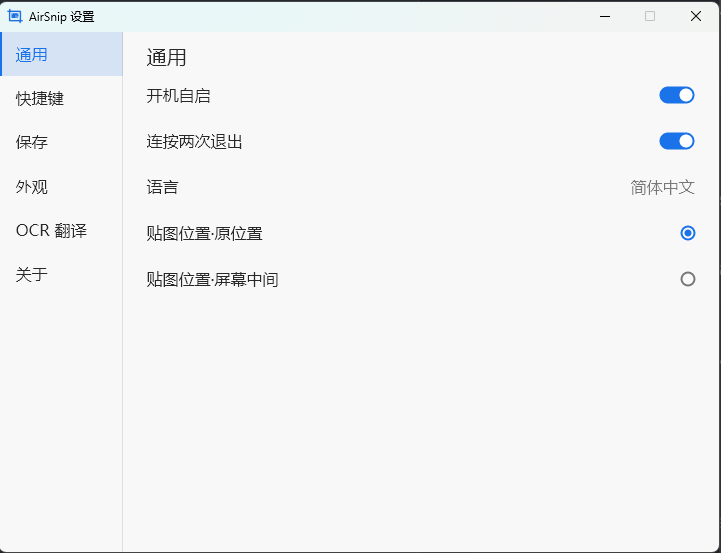
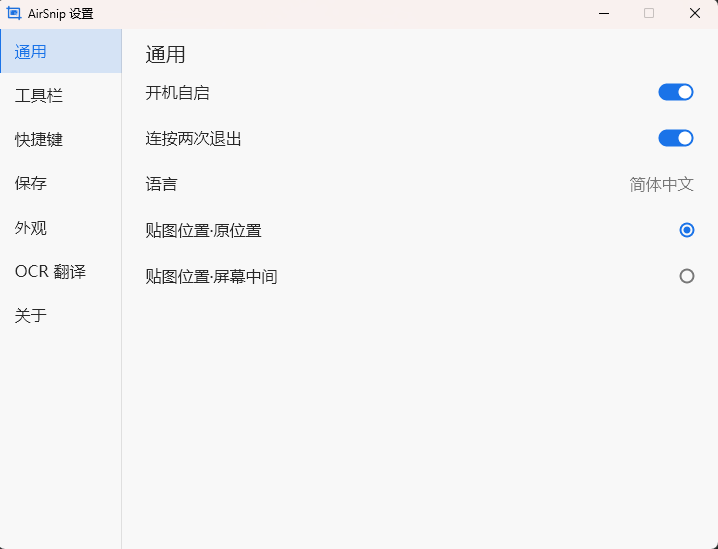
🚀 跟进 v0.11.0 正式版：版本、体积与新截图
- site.ts：VERSION → v0.11.0；单文件 1.46 MB、下载包 0.81 MB（zip 实测 851,952 字节，官方直链与 v4.gh-proxy 都返回 200 且长度一致）
- releaseUpdate：换成 v0.11.0 的四张卡片（工具栏逐项显隐 / 单独删除选中标注 / OCR 不再要总开关 / 「恢复默认」不再误触），新增 trash 图标
- 快捷键：OCR 默认键 C → T（以源码 src/settings/hotkey.rs 与 Release 说明为准，原值取自作者本机改过的绑定）；补 Del / Backspace 删除选中标注
- 截图：新增「工具栏」页（toolbar.webp，ProductTour 第 2 个标签），其余 6 张换成作者新补的图并同步尺寸；alt 不再逐项枚举导航
- 文档：features 补「工具栏」页与单独删除、OCR 段改成常开；faq「OCR 怎么开」改成「怎么用」；performance / download / getting-started 体积同步
- 首页更新卡片 4 张时改排 2×2（data-count 驱动），不再 3+1 留孤卡
- README / AGENTS 里的版本号与体积示例同步

diff --git a/docs/.vitepress/data/site.ts b/docs/.vitepress/data/site.ts
@@ -39,6 +39,7 @@ export interface ReleaseChange {
     | 'mirror'
     | 'toggle'
     | 'size'
+    | 'trash'
     | 'ocr'
     | 'mouse'
     | 'tooltip'
@@ -60,7 +61,7 @@ export interface ReleaseUpdate {
 }
 
 export interface Screenshot {
-  id: 'general' | 'shortcuts' | 'save' | 'appearance' | 'ocr' | 'about'
+  id: 'general' | 'toolbar' | 'shortcuts' | 'save' | 'appearance' | 'ocr' | 'about'
   /** 标签页名 */
   title: string
   /** 只描述图中可见内容 */
@@ -80,7 +81,7 @@ export const THIRD_PARTY_URL = `${REPO_URL}/blob/main/THIRD-PARTY.md`
 export const PERF_URL = `${REPO_URL}/blob/main/docs/perf-m5.md`
 
 // 由作者维护：改这里即可让下载地址与页面上显示的版本号同步更新
-export const VERSION = 'v0.10.0'
+export const VERSION = 'v0.11.0'
 
 /** 当前版本的 Release 页面，用于「完整更新日志」 */
 export const RELEASE_URL = `${RELEASES_URL}/tag/${VERSION}`
@@ -102,20 +103,20 @@ export const DESCRIPTION = '1 MB 的 Windows 截图标注工具（Rust，纯 CPU
 export const downloadInfo = {
   platform: 'Windows x64',
   portable: '绿色免安装',
-  packageSize: '0.80 MB',
+  packageSize: '0.81 MB',
   license: 'GPL-3.0-only',
 } as const
 
 export const stats: Stat[] = [
   {
     label: '单文件体积',
-    value: '1.44',
+    value: '1.46',
     unit: 'MB',
     note: '一个 exe 就是全部',
   },
   {
     label: '下载包',
-    value: '0.80',
+    value: '0.81',
     unit: 'MB',
     note: 'zip，含文档与许可证',
   },
@@ -152,37 +153,27 @@ export const statsFootnote =
 /** 首页「这次更新了什么」：只写当前版本 Release 说明里的事实 */
 export const releaseUpdate: ReleaseUpdate = {
   title: '这次更新了什么',
-  lead: '一句话：新增直线 / 椭圆 / 手绘三个标注工具，5 个色块全部可自定义，取消改成连按两次，并修掉 HDR 桌面下长截图内存暴涨。',
+  lead: '一句话：截图工具栏的元素可以逐个隐藏，只留自己常用的那几个按钮；选中的标注能单独删除；OCR 不用再先去设置里开总开关。',
   changes: [
     {
-      icon: 'shapes',
-      title: '新增直线 / 椭圆 / 手绘',
-      body: '工具栏再加三个标注工具，默认键 8 / 9 / 0，可在设置里改并参与冲突检测。直线按住 Shift 吸附水平 / 垂直 / 45°，只有头尾两个端点手柄；椭圆按住 Shift 画正圆，与矩形共用填充开关；手绘按 2px 最小步距采样点列，渲染用「相邻点中点 + 二次贝塞尔」平滑，命中按折线距离判定。三者都进既有的矢量对象模型，选中 / 移动 / 八向缩放 / 方向键微调 / 撤销重做直接可用。',
+      icon: 'layout',
+      title: '工具栏元素可逐个隐藏',
+      body: '设置面板新增「工具栏」页（导航 6 → 7 项），24 个元素逐项开关：10 个工具、5 个色块、填充 / 撤销 / 重做 / 字体行、贴图 / 长截图 / OCR、复制 / 保存；组头可整组全显或全隐，部分可见时勾选框显示半选。隐藏只是不画：快捷键、输出行为、配置一律照旧——藏了保存按钮 Ctrl+S 照样能存，藏了椭圆的数字键 9 照样能切过去。默认全部可见，不动设置的话工具栏与原来完全一致。',
     },
     {
-      icon: 'palette',
-      title: '5 个色块都能自己改',
-      body: '取消原来单独的「自定义色」格子，工具栏 5 个色块统一为单击使用、双击改色：双击展开覆盖层内自绘的取色面板，改的就是该色块本身。单击不用等「可能是双击」的计时器，所以没有选色延迟；悬停提示显示当前色值与操作方式。5 色随配置持久化，下次截图沿用。',
+      icon: 'trash',
+      title: '选中的标注可以单独删除',
+      body: '选中对象后按 Del / Backspace 只删这一个，Ctrl+Z 一步恢复，不用再撤回到它之前、把后面画的全部重画。入口只有键盘：不加工具栏按钮，也不加包围框上的 ✕；没选中对象时不吞按键，照旧用于工具切换。',
+    },
+    {
+      icon: 'ocr',
+      title: 'OCR 不再要总开关',
+      body: 'OCR 常开，设置「OCR 翻译」页删掉了「启用 OCR」，工具栏上的 OCR 按钮默认出现；首次识别才初始化识别引擎，待机开销不变。不想看到按钮就在「工具栏」页隐藏它——隐藏不影响 T 键；彻底不用 OCR，到快捷键页把 OCR 键清空为「未设置」即可。',
     },
     {
       icon: 'mouse',
-      title: '取消截图改成连按两次',
-      body: '有未保存标注时，第一次按 Esc / 右键只弹非模态提示，同一键在 2 秒内再按一次才退出，不再弹系统确认框；换键或先做别的操作会解除待命。设置「常规」页的开关文案改为「连按两次退出」，关掉后有标注也直接退出。',
-    },
-    {
-      icon: 'tooltip',
-      title: '提示不再盖住选区',
-      body: '小选区下的提示优先放在选区内部右上角；可用高度不到提示两倍或宽度塞不下时退到选区上方，上方也没空间才放下方，最后钳回屏幕内。提示 2 秒自动消失，末尾 0.5 秒渐隐。',
-    },
-    {
-      icon: 'hdr',
-      title: '修掉 HDR 下长截图内存暴涨',
-      body: 'HDR 桌面抓屏走 DXGI Desktop Duplication，原实现每抓一帧就重建一次 D3D11 设备与 duplication 会话，驱动在反复重建时会累积泄漏（长截图期间每 ~90ms 一帧，越滚占用越大）。现在整个长截图会话复用同一套设备，结束统一释放；遇到 DXGI_ERROR_ACCESS_LOST（切分辨率 / 全屏独占 / 锁屏）重建一次后继续。单次截图与贴图编辑仍是现建现用。',
-    },
-    {
-      icon: 'layout',
-      title: '界面细节跟上',
-      body: '系统对话框声明通用控件 v6，抓屏 / 保存失败的提示不再是 Win7 式经典外观。设置「快捷键」页键帽行 12 → 15 项（5 个热键 + 10 个工具），仍是两列、固定窗口高度内；工具栏第一行 19 → 22 个按钮，已补窄屏 / 高缩放下不越界的回归测试。',
+      title: '「恢复默认」不再误触',
+      body: '按钮命中测试原先按整行矩形判定，而行宽约 570px、按钮只有约 120px 且右对齐，点按钮左侧的空白也会触发恢复默认，视觉与实际可点区域正好相反。同一处缺陷一并修好「关于」页的「版本更新」按钮；顺带把分散在 6 处的快捷键元数据收敛成一张表，新增键帽行不再要手改多个地方。',
     },
   ],
 }
@@ -250,7 +241,7 @@ export const shortcuts: Shortcut[] = [
   { keys: ['Ctrl', 'S'], action: '另存为（PNG / JPEG / WebP）', scope: 'overlay' },
   { keys: ['F3'], action: '把选区贴到屏幕', scope: 'overlay' },
   { keys: ['S'], action: '长截图（当前选区为视口）', scope: 'overlay' },
-  { keys: ['C'], action: 'OCR 识别选区文字（需在设置里打开总开关，默认键可改）', scope: 'overlay' },
+  { keys: ['T'], action: 'OCR 识别选区文字（默认键，可改；工具栏按钮藏起来也照旧可用）', scope: 'overlay' },
   {
     keys: ['1 – 9', '0'],
     action:
@@ -258,6 +249,11 @@ export const shortcuts: Shortcut[] = [
     scope: 'overlay',
   },
   { keys: ['Ctrl', 'Z'], action: '撤销（Ctrl+Y 或 Ctrl+Shift+Z 重做）', scope: 'overlay' },
+  {
+    keys: ['Del', 'Backspace'],
+    action: '删除选中的那个标注，Ctrl+Z 一步恢复；没选中对象时不吞按键',
+    scope: 'overlay',
+  },
   {
     keys: ['方向键'],
     action: '微调选中对象；无选中时移动选区框（按住 Shift 每次 5px）',
@@ -326,10 +322,20 @@ export const screenshots: Screenshot[] = [
     title: '通用',
     caption:
       '「通用」页：开机自启与连按两次退出两个开关，语言（简体中文），贴图位置（原位置 / 屏幕中间）二选一。',
-    alt: 'AirSnip 设置窗口的「通用」页，含开机自启、连按两次退出、语言与贴图位置，左侧导航为通用、快捷键、保存、外观、OCR 翻译、关于',
+    alt: 'AirSnip 设置窗口的「通用」页，含开机自启、连按两次退出、语言与贴图位置',
     src: '/images/general.webp',
+    width: 718,
+    height: 549,
+  },
+  {
+    id: 'toolbar',
+    title: '工具栏',
+    caption:
+      '「工具栏」页：24 个工具栏元素逐项显隐——10 个工具、5 个色块、填充 / 撤销 / 重做 / 字体行、贴图 / 长截图 / OCR、复制 / 保存；组头可整组全显或全隐。页脚提示：全隐藏后 Enter 仍复制、Ctrl+S 仍保存。',
+    alt: 'AirSnip 设置窗口的「工具栏」页，24 个工具栏元素分成五组逐项开关，页脚提示隐藏后 Enter 仍复制、Ctrl+S 仍保存',
+    src: '/images/toolbar.webp',
     width: 721,
-    height: 553,
+    height: 552,
   },
   {
     id: 'shortcuts',
@@ -338,8 +344,8 @@ export const screenshots: Screenshot[] = [
       '「快捷键」页：截图 F1、再次截图 Shift+F1、贴图 F3、贴图边框 Ctrl+F3、长截图 S、OCR C，以及各标注工具的按键，全部可改；底部「恢复默认」一键还原，并提示无修饰键会覆盖其他程序按键。',
     alt: 'AirSnip 设置窗口的「快捷键」页，逐项列出截图、再次截图、贴图、贴图边框、长截图、OCR 与各标注工具的按键，底部有「恢复默认」按钮',
     src: '/images/shortcuts.webp',
-    width: 719,
-    height: 552,
+    width: 721,
+    height: 549,
   },
   {
     id: 'save',
@@ -347,8 +353,8 @@ export const screenshots: Screenshot[] = [
     caption: '「保存」页：文件名格式三选一——日期 + 时间、时间戳（毫秒）、仅日期。',
     alt: 'AirSnip 设置窗口的「保存」页，三个文件名格式单选项',
     src: '/images/save.webp',
-    width: 722,
-    height: 552,
+    width: 717,
+    height: 547,
   },
   {
     id: 'appearance',
@@ -357,18 +363,18 @@ export const screenshots: Screenshot[] = [
       '「外观」页：跟随系统 / 浅色 / 深色三档，软件主题支持跟随系统切换；界面缩放另有自动 / 100% / 125% / 150% / 175% / 200% 六档。',
     alt: 'AirSnip 设置窗口的「外观」页，三个主题单选项，以及界面缩放的自动、100%、125%、150%、175%、200% 六个档位',
     src: '/images/appearance.webp',
-    width: 723,
-    height: 552,
+    width: 718,
+    height: 548,
   },
   {
     id: 'ocr',
     title: 'OCR 翻译',
     caption:
-      '「OCR 翻译」页：OCR 总开关、识别后自动复制、识别语言（跟随系统），说明写明本地识别、图片不出本机。',
-    alt: 'AirSnip 设置窗口的「OCR 翻译」页，含 OCR 总开关、识别后自动复制、识别语言与本地识别说明',
+      '「OCR 翻译」页：识别后自动复制、识别语言（跟随系统），说明写明本地识别、图片不出本机。',
+    alt: 'AirSnip 设置窗口的「OCR 翻译」页，含识别后自动复制、识别语言与本地识别说明',
     src: '/images/ocr.webp',
-    width: 720,
-    height: 551,
+    width: 721,
+    height: 554,
   },
   {
     id: 'about',
@@ -377,8 +383,8 @@ export const screenshots: Screenshot[] = [
       '「关于」页：版本与许可、项目地址、第三方许可清单入口、版本更新（含启动时自动检查开关，图中显示已是最新），以及作者的支持项目说明与赞赏二维码（原样展示）。',
     alt: 'AirSnip 设置窗口的「关于」页，含版本号、GPL-3.0 许可、项目地址、第三方许可入口、版本更新与启动时自动检查开关，以及支持项目二维码',
     src: '/images/about.webp',
-    width: 723,
-    height: 552,
+    width: 715,
+    height: 546,
   },
 ]
 

diff --git a/docs/.vitepress/theme/components/ReleaseNotes.vue b/docs/.vitepress/theme/components/ReleaseNotes.vue
@@ -15,6 +15,8 @@ const icons: Record<ReleaseChange['icon'], string> = {
   toggle:
     '<rect width="20" height="12" x="2" y="6" rx="6"/><circle cx="8" cy="12" r="2"/>',
   size: '<path d="M21 8a2 2 0 0 0-1-1.73l-7-4a2 2 0 0 0-2 0l-7 4A2 2 0 0 0 3 8v8a2 2 0 0 0 1 1.73l7 4a2 2 0 0 0 2 0l7-4A2 2 0 0 0 21 16Z"/><path d="m3.3 7 8.7 5 8.7-5"/><path d="M12 22V12"/>',
+  trash:
+    '<path d="M3 6h18"/><path d="M19 6v14a2 2 0 0 1-2 2H7a2 2 0 0 1-2-2V6"/><path d="M8 6V4a2 2 0 0 1 2-2h4a2 2 0 0 1 2 2v2"/><path d="M10 11v6"/><path d="M14 11v6"/>',
   ocr: '<path d="M3 7V5a2 2 0 0 1 2-2h2"/><path d="M17 3h2a2 2 0 0 1 2 2v2"/><path d="M21 17v2a2 2 0 0 1-2 2h-2"/><path d="M7 21H5a2 2 0 0 1-2-2v-2"/><path d="M7 8h8"/><path d="M7 12h10"/><path d="M7 16h6"/>',
   mouse: '<rect x="5" y="2" width="14" height="20" rx="7"/><path d="M12 6v4"/>',
   tooltip: '<path d="M21 15a2 2 0 0 1-2 2H7l-4 4V5a2 2 0 0 1 2-2h14a2 2 0 0 1 2 2z"/>',
@@ -43,7 +45,7 @@ const icons: Record<ReleaseChange['icon'], string> = {
       <p class="as-release__lead">{{ releaseUpdate.lead }}</p>
     </Reveal>
 
-    <div class="as-release__grid">
+    <div class="as-release__grid" :data-count="releaseUpdate.changes.length">
       <Reveal
         v-for="(item, index) in releaseUpdate.changes"
         :key="item.title"

diff --git a/docs/.vitepress/theme/custom.css b/docs/.vitepress/theme/custom.css
@@ -795,6 +795,11 @@ button:focus-visible,
     gap: 20px;
   }
 
+  /* 四张卡片排成 2×2，不留孤卡 */
+  .as-release__grid[data-count='4'] {
+    grid-template-columns: repeat(2, minmax(0, 1fr));
+  }
+
   .as-tools,
   .as-audiences {
     grid-template-columns: repeat(3, 1fr);

diff --git a/docs/guide/features.md b/docs/guide/features.md
@@ -27,7 +27,7 @@ import ToolShowcase from '../.vitepress/theme/components/ToolShowcase.vue'
 
 <figure class="as-shot">
   <div class="as-window">
-    <img src="/images/general.webp" alt="AirSnip 设置窗口的「通用」页，含开机自启、连按两次退出、语言与贴图位置，左侧导航为通用、快捷键、保存、外观、OCR 翻译、关于" width="721" height="553" loading="lazy" decoding="async" />
+    <img src="/images/general.webp" alt="AirSnip 设置窗口的「通用」页，含开机自启、连按两次退出、语言与贴图位置" width="718" height="549" loading="lazy" decoding="async" />
   </div>
   <figcaption>设置面板「通用」页：开机自启、连按两次退出、语言、贴图位置。</figcaption>
 </figure>
@@ -35,6 +35,7 @@ import ToolShowcase from '../.vitepress/theme/components/ToolShowcase.vue'
 ## 二次编辑 {#edit}
 
 - 选中对象显示包围框 + 八向手柄：拖动移动、拖角缩放（`Shift` 等比）
+- 选中后按 `Del` / `Backspace` 只删这一个标注，`Ctrl+Z` 一步恢复，不连带撤销其它标注
 - 颜色与填充实时作用于选中对象；线宽 / 模糊强度 / 字号用滚轮调
 - 撤销 / 重做 100 步，一次拖拽 = 一步
 
@@ -46,7 +47,7 @@ import ToolShowcase from '../.vitepress/theme/components/ToolShowcase.vue'
 
 <figure class="as-shot">
   <div class="as-window">
-    <img src="/images/save.webp" alt="AirSnip 设置窗口的「保存」页，三个文件名格式单选项" width="722" height="552" loading="lazy" decoding="async" />
+    <img src="/images/save.webp" alt="AirSnip 设置窗口的「保存」页，三个文件名格式单选项" width="717" height="547" loading="lazy" decoding="async" />
   </div>
   <figcaption>设置面板「保存」页：文件名格式三选一。</figcaption>
 </figure>
@@ -60,18 +61,19 @@ import ToolShowcase from '../.vitepress/theme/components/ToolShowcase.vue'
 
 ## OCR 文字识别 {#ocr}
 
-- `F1` 框选后按 `C`（默认键，可改；或点工具栏「OCR」按钮）：覆盖层立即关闭，弹出文字卡片
+- `F1` 框选后按 `T`（默认键，可改；或点工具栏「OCR」按钮）：覆盖层立即关闭，弹出文字卡片
 - 卡片里的文字可以直接改错字、拖选、`Ctrl+A/C/V/X/Z`、右键菜单，输入法候选框跟随光标
 - 左下「复制」一键写剪贴板，右下「自动复制」开关默认关闭；顶部图钉把卡片置顶，方便对照粘贴
 - 卡片不自动关闭，`Esc` 或右上角 ✕ 关闭
 - 识别走 Windows 自带的 `Windows.Media.Ocr`：图片不出本机，不需要 API key，不联网、不计费
-- **默认关闭**：设置 → 「OCR 翻译」里打开总开关后才生效，关闭时工具栏不出现 OCR 按钮、`C` 键不生效；识别语言默认跟随系统首选语言，也可以在设置里指定；同一页的「识别后自动复制」可以让识别结果直接写进剪贴板
+- **不用先去开开关**：OCR 常开，工具栏的 OCR 按钮默认就在；首次识别才初始化引擎，不识别时不占资源。识别语言默认跟随系统首选语言，也可以在设置里指定；同一页的「识别后自动复制」可以让识别结果直接写进剪贴板
+- 不想看到 OCR 按钮就在设置 → 「工具栏」里隐藏它，隐藏后 `T` 仍可用；彻底不用 OCR，到「快捷键」页把 OCR 键清空为「未设置」
 
 <figure class="as-shot">
   <div class="as-window">
-    <img src="/images/ocr.webp" alt="AirSnip 设置窗口的「OCR 翻译」页，含 OCR 总开关、识别后自动复制、识别语言与本地识别说明" width="720" height="551" loading="lazy" decoding="async" />
+    <img src="/images/ocr.webp" alt="AirSnip 设置窗口的「OCR 翻译」页，含识别后自动复制、识别语言与本地识别说明" width="721" height="554" loading="lazy" decoding="async" />
   </div>
-  <figcaption>设置面板「OCR 翻译」页：OCR 总开关、识别后自动复制、识别语言。</figcaption>
+  <figcaption>设置面板「OCR 翻译」页：识别后自动复制、识别语言。</figcaption>
 </figure>
 
 ## 贴图（Pin） {#pin}
@@ -84,15 +86,22 @@ import ToolShowcase from '../.vitepress/theme/components/ToolShowcase.vue'
 
 - 自绘面板，跟随系统深浅色
 - 「外观」设置：调整软件主题，支持跟随系统切换、自适应；界面缩放可选自动或 100%–200% 固定档位，作用于全部界面（设置面板、覆盖层工具栏、贴图窗口）
+- 「工具栏」页：24 个元素逐项显隐（10 个工具 / 5 个色块 / 填充·撤销·重做·字体行 / 贴图·长截图·OCR / 复制·保存），组头可整组全显或全隐；隐藏只影响绘制，快捷键与输出照旧——藏了保存按钮，`Ctrl+S` 照样能存
 - 开机自启、「连按两次退出」、全部快捷键可改（含冲突检测与输入法兼容）；每一项都能清空为「未设置」，底部「恢复默认」一键还原全部快捷键
 - 贴图默认位置、文件名模板、主题
 - 自动更新：启动后静默检查新版本，发现后弹托盘气泡；可以在「关于」→ 版本更新里关掉「启动时自动检查」，也可以在那里手动更新
-- OCR：设置 → 「OCR 翻译」里的总开关，默认关闭；打开后工具栏出现 OCR 按钮，覆盖层里 `C` 键生效
 - 「关于」页：版本、许可、第三方组件清单、项目地址
 
 <figure class="as-shot">
   <div class="as-window">
-    <img src="/images/appearance.webp" alt="AirSnip 设置窗口的「外观」页，三个主题单选项，以及界面缩放的自动、100%、125%、150%、175%、200% 六个档位" width="723" height="552" loading="lazy" decoding="async" />
+    <img src="/images/toolbar.webp" alt="AirSnip 设置窗口的「工具栏」页，24 个工具栏元素分成五组逐项开关，页脚提示隐藏后 Enter 仍复制、Ctrl+S 仍保存" width="721" height="552" loading="lazy" decoding="async" />
+  </div>
+  <figcaption>设置面板「工具栏」页：24 个元素逐项显隐，组头可整组全显或全隐。</figcaption>
+</figure>
+
+<figure class="as-shot">
+  <div class="as-window">
+    <img src="/images/appearance.webp" alt="AirSnip 设置窗口的「外观」页，三个主题单选项，以及界面缩放的自动、100%、125%、150%、175%、200% 六个档位" width="718" height="548" loading="lazy" decoding="async" />
   </div>
   <figcaption>设置面板「外观」页：跟随系统 / 浅色 / 深色，以及界面缩放的自动、100%、125%、150%、175%、200%。</figcaption>
 </figure>

diff --git a/README.md b/README.md
@@ -63,7 +63,7 @@ docs/
 只改 `docs/.vitepress/data/site.ts`：
 
 ```ts
-export const VERSION = 'v0.10.0'                   // 版本号
+export const VERSION = 'v0.11.0'                   // 版本号
 export const MIRROR_PREFIX = 'https://v4.gh-proxy.org/' // 国内加速站前缀
 ```
 
@@ -92,9 +92,9 @@ https://github.com/bd-dxg/airsnip/releases/download/<VERSION>/airsnip-<VERSION>-
 
 ## TODO（待作者 / 人工确认）
 
-1. **下载包体积口径**：`v0.10.0` 的 `airsnip-v0.10.0-win-x64.zip` 实测为 842,706 字节（约 0.80 MiB / 0.84 MB 十进制），页面写的是「约 0.80 MB」，与 Release 说明一致。如需精确，改 `downloadInfo.packageSize`。
+1. **下载包体积口径**：`v0.11.0` 的 `airsnip-v0.11.0-win-x64.zip` 实测为 851,952 字节（约 0.81 MiB / 0.85 MB 十进制），页面写的是「约 0.81 MB」（按 MiB 计，与历次口径一致）。如需精确，改 `downloadInfo.packageSize`。
 2. **截图为 WebP**：作者提供的原图为 `.webp`（文档示例写的是 `.jpg`）。为避免引入图片处理依赖，站点直接引用 webp，未做转码；`og:image` 同样是 webp，个别社交平台预览支持有限，如需要可另出一张 png。
-3. **图片体积**：7 张截图当前均小于 450 KB（最大为 `hero.webp` 约 417 KB），暂不需要压缩。
+3. **图片体积**：8 张截图当前均小于 450 KB（最大为 `hero.webp` 约 417 KB），暂不需要压缩。
 4. **`about.webp` 中的赞助信息**：按文档要求原样展示，站点不新增任何赞助页或收款码。
 5. **已按作者指示偏离文档的 3 处**（仅记录，无需处理）：
    - 版本号取 `v0.8.1`（文档写的是 `v0.5.0`）。

diff --git a/AGENTS.md b/AGENTS.md
@@ -29,7 +29,7 @@ pnpm exec tsc --noEmit # 类型检查（strict）
 第 1 步改完，用下面这条各验一次，**两个都返回 200 且 `Content-Length` 一致**才算对：
 
 ```powershell
-$asset = 'https://github.com/bd-dxg/airsnip/releases/download/v0.6.0/airsnip-v0.6.0-win-x64.zip'
+$asset = 'https://github.com/bd-dxg/airsnip/releases/download/v0.11.0/airsnip-v0.11.0-win-x64.zip'
 curl.exe -sIL -o NUL -w "%{http_code} %{size_download}`n" $asset
 curl.exe -sIL -o NUL -w "%{http_code} %{size_download}`n" "https://v4.gh-proxy.org/$asset"
 ```
@@ -39,10 +39,10 @@ curl.exe -sIL -o NUL -w "%{http_code} %{size_download}`n" "https://v4.gh-proxy.o
 国内加速走 `v4.gh-proxy.org`（和 danmu-site 同一个镜像），原始 GitHub 链接直接拼在域名后面：
 
 ```text
-https://v4.gh-proxy.org/https://github.com/bd-dxg/airsnip/releases/download/v0.6.0/airsnip-v0.6.0-win-x64.zip
+https://v4.gh-proxy.org/https://github.com/bd-dxg/airsnip/releases/download/v0.11.0/airsnip-v0.11.0-win-x64.zip
 ```
 
-注意这里的路径和文件名**都带 v**（`v0.6.0` / `airsnip-v0.6.0-win-x64.zip`），和 douyin-danmu 的 `0.2.1` 格式不一样，别照抄那边的。
+注意这里的路径和文件名**都带 v**（`v0.11.0` / `airsnip-v0.11.0-win-x64.zip`），和 douyin-danmu 的 `0.2.1` 格式不一样，别照抄那边的。
 
 `releases/latest` 只适合当「历史版本 / 所有版本」入口，不是直接下载——资产名里带版本号，`/releases/latest/download/<文件名>` 用不了。
 

diff --git a/docs/guide/getting-started.md b/docs/guide/getting-started.md
@@ -9,7 +9,7 @@ AirSnip 是绿色单文件，解压即用，不写注册表。下面是完整启
 
 ## 1. 下载并解压
 
-点击下载按钮获取 zip（约 0.80 MB，含文档与许可证），解压到任意目录。
+点击下载按钮获取 zip（约 0.81 MB，含文档与许可证），解压到任意目录。
 
 <DownloadCard />
 
@@ -31,7 +31,7 @@ AirSnip 是绿色单文件，解压即用，不写注册表。下面是完整启
 
 <figure class="as-shot">
   <div class="as-window">
-    <img src="/images/general.webp" alt="AirSnip 设置窗口的「通用」页，含开机自启、连按两次退出、语言与贴图位置，左侧导航为通用、快捷键、保存、外观、OCR 翻译、关于" width="721" height="553" loading="lazy" decoding="async" />
+    <img src="/images/general.webp" alt="AirSnip 设置窗口的「通用」页，含开机自启、连按两次退出、语言与贴图位置" width="718" height="549" loading="lazy" decoding="async" />
   </div>
   <figcaption>设置面板「通用」页：开机自启、语言、贴图位置。</figcaption>
 </figure>

diff --git a/docs/about/license.md b/docs/about/license.md
@@ -15,7 +15,7 @@ AirSnip 以 **GPL-3.0-only** 开源，源码与问题反馈都在 [GitHub 仓库
 
 <figure class="as-shot">
   <div class="as-window">
-    <img src="/images/about.webp" alt="AirSnip 设置窗口的「关于」页，含版本号、GPL-3.0 许可、项目地址、第三方许可入口、版本更新与支持项目二维码" width="723" height="552" loading="lazy" decoding="async" />
+    <img src="/images/about.webp" alt="AirSnip 设置窗口的「关于」页，含版本号、GPL-3.0 许可、项目地址、第三方许可入口、版本更新与支持项目二维码" width="715" height="546" loading="lazy" decoding="async" />
   </div>
   <figcaption>软件「关于」页：版本、许可、项目地址、第三方许可入口与作者的支持项目。</figcaption>
 </figure>

diff --git a/docs/download.md b/docs/download.md
@@ -1,6 +1,6 @@
 ---
 title: 下载
-description: 下载 AirSnip：Windows x64 绿色单文件，约 0.80 MB，解压即用，无需安装。
+description: 下载 AirSnip：Windows x64 绿色单文件，约 0.81 MB，解压即用，无需安装。
 ---
 
 # 下载
